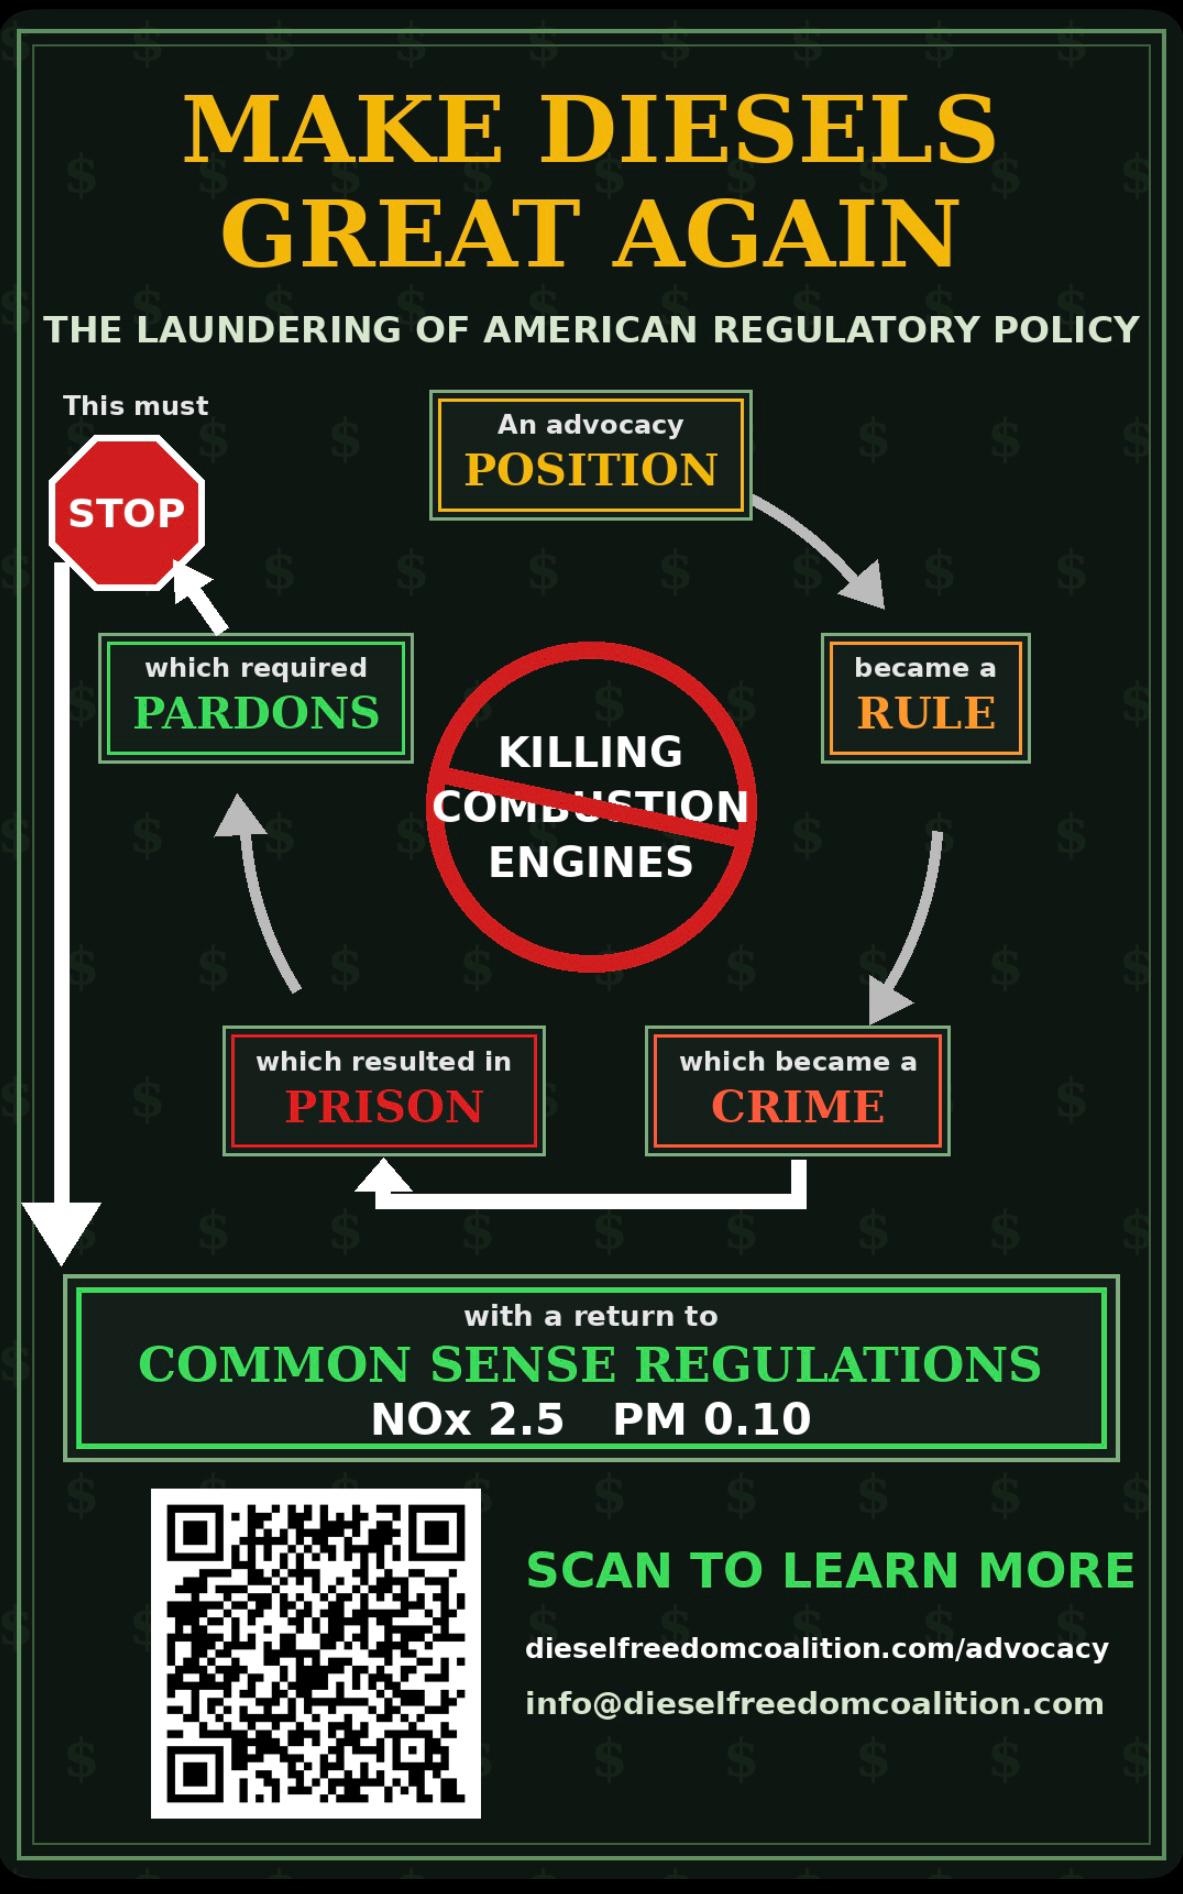
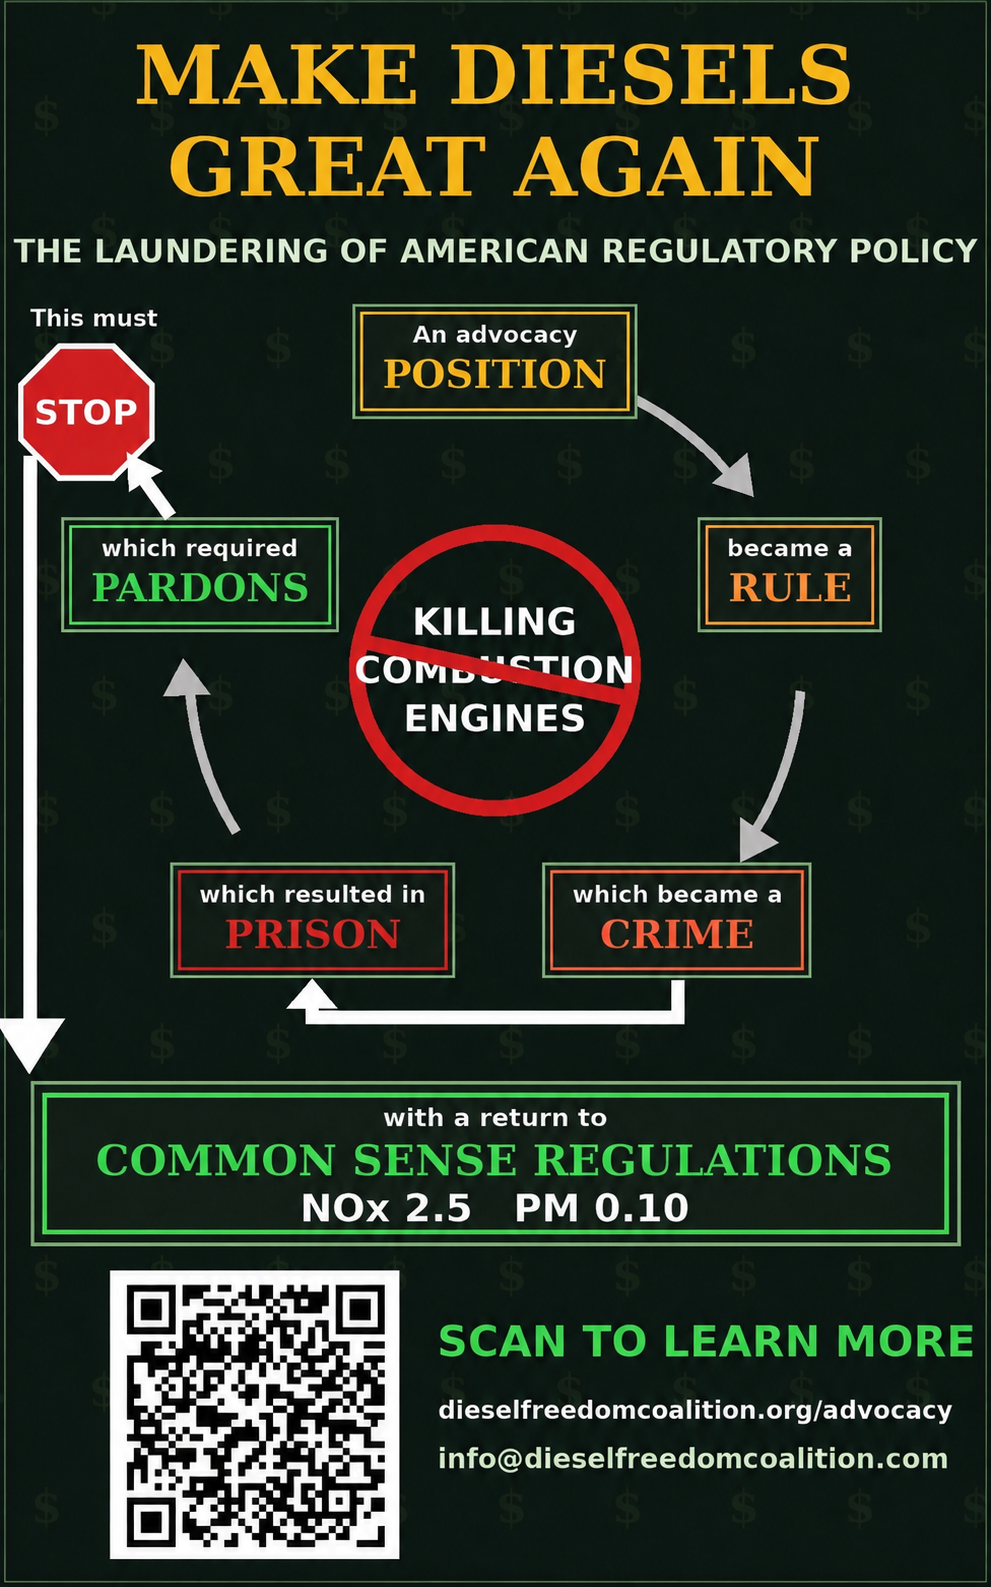
Update advocacy poster download and QR code to revised artwork
Replace the downloadable Make Diesels Great Again poster with the
revised version (new QR code, .org URL) and regenerate the on-page QR
image to match. Update Open Graph image dimensions to 991x1587.

Claude-Session: https://claude.ai/code/session_01Vdcs8HZSSNVBU1iCZDGvQn

Changed region(s): [[0.0, 0.0, 0.999, 1.0]]

diff --git a/app/advocacy/page.tsx b/app/advocacy/page.tsx
@@ -10,7 +10,7 @@ export const metadata: Metadata = {
     description:
       "The Laundering of American Regulatory Policy. Position, rule, crime, prison, pardons. This must stop. Common sense regulations: NOx 2.5, PM 0.10.",
     url: "https://dieselfreedomcoalition.org/advocacy",
-    images: [{ url: "/advocacy-poster.png", width: 1183, height: 1900, alt: "Make Diesels Great Again poster" }],
+    images: [{ url: "/advocacy-poster.png", width: 991, height: 1587, alt: "Make Diesels Great Again poster" }],
   },
   twitter: {
     card: "summary_large_image",
